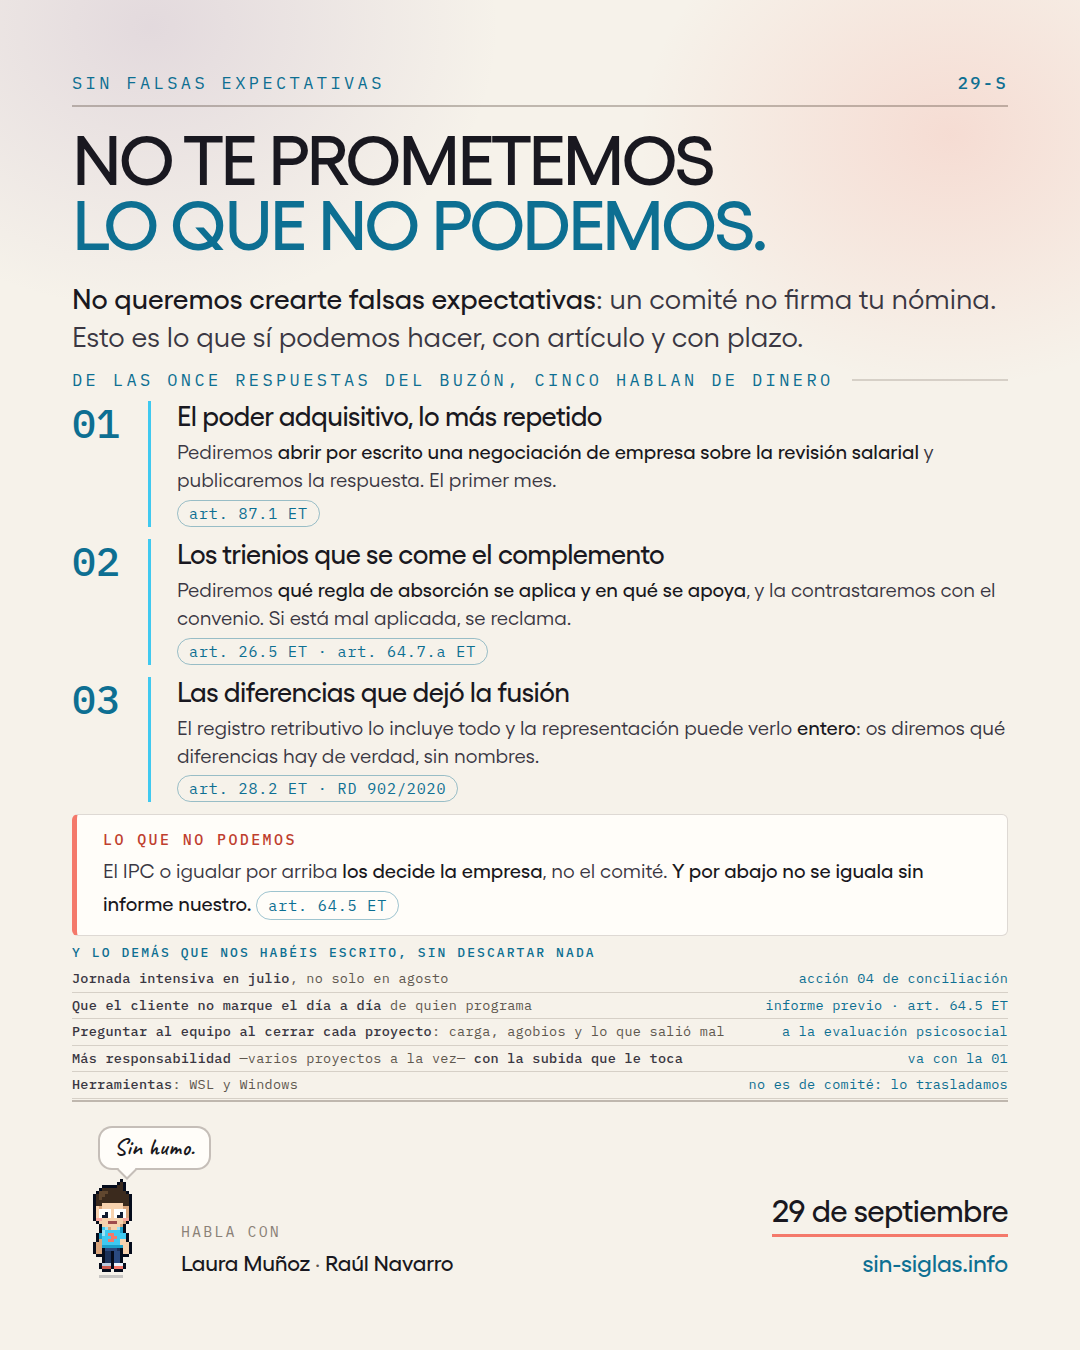
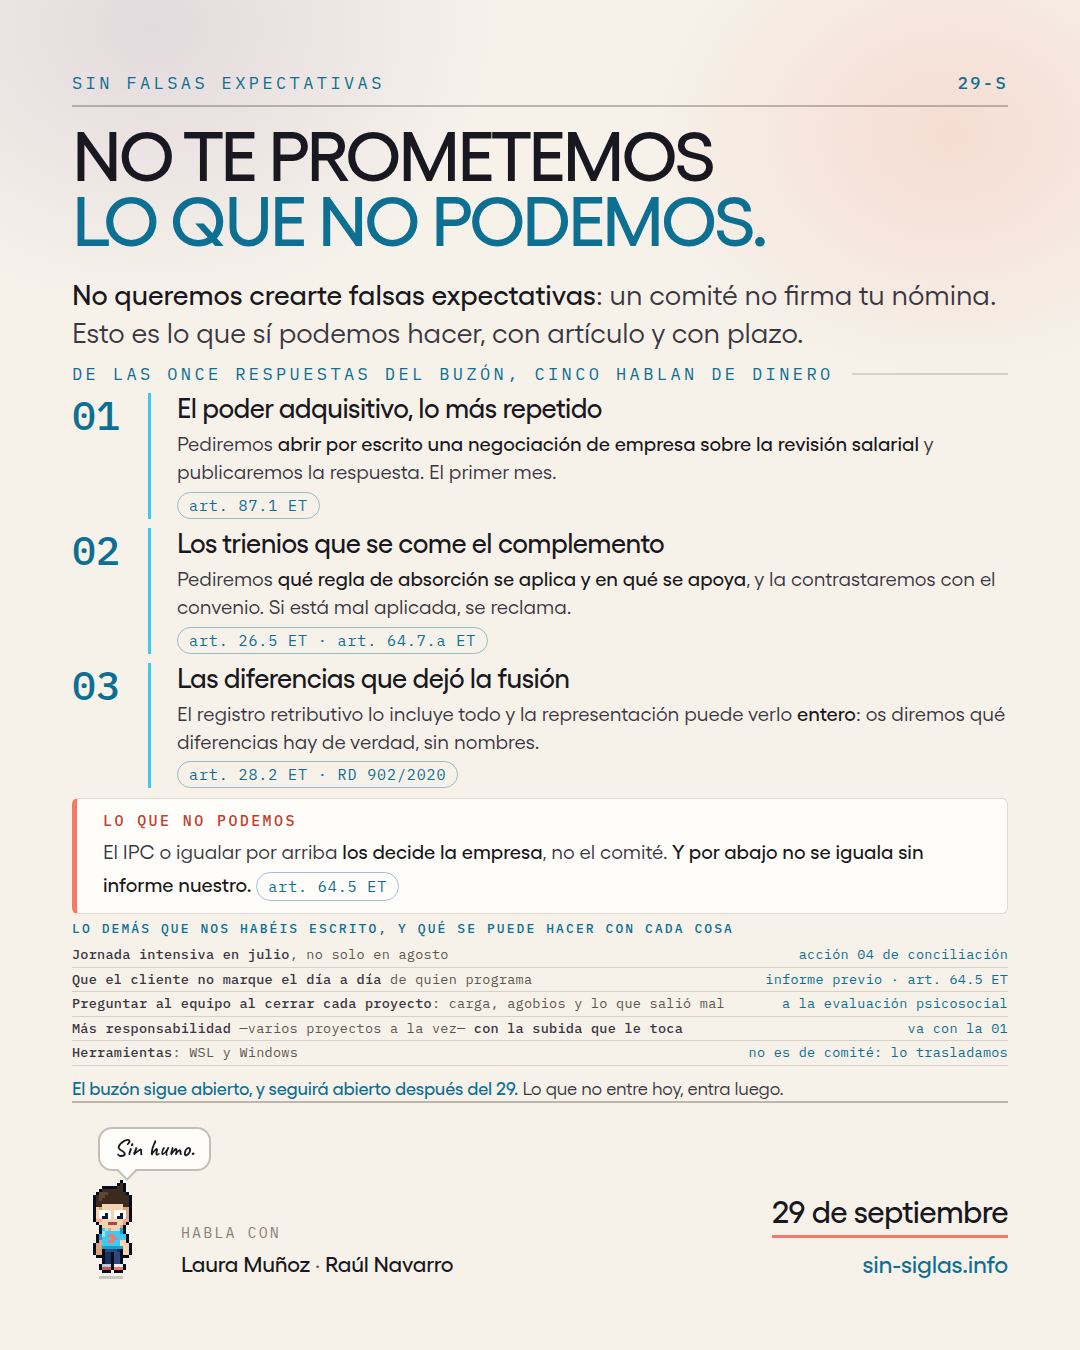
La tira del buzón deja de leerse como un cajón
En `propuestas`, los cinco temas que no son de dinero iban en mono
pequeño con la respuesta alineada a la derecha, bajo un rótulo que decía
"sin descartar nada". Leído del tirón, eso es exactamente lo que parecía:
el sitio donde se aparca lo que no interesa. Y el rótulo defendiéndose
lo empeoraba.

Dos cambios. El rótulo pasa a decir qué es la tira -- "lo demás que nos
habéis escrito, y qué se puede hacer con cada cosa" -- sin defenderse. Y
la tira cierra con una línea en tipografía de cuerpo, en cian: el buzón
sigue abierto, y seguirá abierto después del 29, así que lo que no entre
hoy entra luego.

Es lo que cambia el sentido de las cinco líneas: sin ella son cinco
temas resueltos en letra chica, con ella son el acuse de recibo de algo
que sigue en marcha. El buzón vive de que la gente crea que sirve
escribir otra vez.

El sitio para la línea sale de los huecos: rótulo, hueco entre acciones,
relleno del panel de límites y separación de la tira. Medido: 1206 de
1206 y nada recortado.

diff --git a/carteles/carteles.html b/carteles/carteles.html
@@ -375,15 +375,15 @@ body.solo .cartel.elegido{display:flex}
 #c2 .ley{margin-top:5px}
 #c2 .limite{margin-top:18px;padding:16px 26px}
 
-#c12 .tapa{padding-bottom:11px;margin-bottom:20px}
-#c12 .rotulo{margin:12px 0 10px}
-#c12 .acciones{gap:12px}
+#c12 .tapa{padding-bottom:11px;margin-bottom:16px}
+#c12 .rotulo{margin:10px 0 8px}
+#c12 .acciones{gap:9px}
 #c12 .accion h3{margin-bottom:6px}
 #c12 .ley{margin-top:5px}
-#c12 .limite{margin-top:12px;padding:15px 26px}
-#c12 .resto{margin-top:8px}
-#c12 .resto ul{gap:4px}
-#c12 .resto li{gap:16px;padding-bottom:4px}
+#c12 .limite{margin-top:10px;padding:12px 26px}
+#c12 .resto{margin-top:6px}
+#c12 .resto ul{gap:3px}
+#c12 .resto li{gap:16px;padding-bottom:3px}
 
 /* 12 · el resto de lo que ha llegado al buzón, una línea por tema con lo
    que se puede hacer con él. Va en tipografía pequeña a propósito: no es
@@ -401,6 +401,10 @@ body.solo .cartel.elegido{display:flex}
 }
 .resto b{color:var(--texto-2);font-weight:500}
 .resto i{font-style:normal;color:var(--cian);text-align:right}
+.resto__abierto{
+  margin:11px 0 0;font-size:18px;line-height:1.35;letter-spacing:-.01em;color:var(--texto-2)
+}
+.resto__abierto b{color:var(--cian);font-weight:500}
 
 /* 11 · el reto: el cartel es el propio tablero del juego. La pregunta
    que sale es de verdad, y es la única del banco cuya respuesta está
@@ -729,7 +733,7 @@ body.solo .cartel.elegido{display:flex}
   </div>
 
   <div class="resto">
-    <p class="resto__t">Y lo demás que nos habéis escrito, sin descartar nada</p>
+    <p class="resto__t">Lo demás que nos habéis escrito, y qué se puede hacer con cada cosa</p>
     <ul>
       <li><span><b>Jornada intensiva en julio</b>, no solo en agosto</span><i>acción 04 de conciliación</i></li>
       <li><span><b>Que el cliente no marque el día a día</b> de quien programa</span><i>informe previo &middot; art. 64.5 ET</i></li>
@@ -737,6 +741,8 @@ body.solo .cartel.elegido{display:flex}
       <li><span><b>Más responsabilidad</b> —varios proyectos a la vez— <b>con la subida que le toca</b></span><i>va con la 01</i></li>
       <li><span><b>Herramientas</b>: WSL y Windows</span><i>no es de comité: lo trasladamos</i></li>
     </ul>
+    <p class="resto__abierto"><b>El buzón sigue abierto, y seguirá abierto después del 29.</b>
+      Lo que no entre hoy, entra luego.</p>
   </div>
 
   <footer class="pie">

diff --git a/carteles/ESTRATEGIA.md b/carteles/ESTRATEGIA.md
@@ -257,6 +257,12 @@ respuestas.
 Ojo con las etiquetas: *ya está pedido* es del cartel del día 22 y significa pedido **a la
 empresa**. Todavía no hay comité, así que aquí no se usa: se dice en qué cartel está la acción.
 
+Y la tira cierra con **«el buzón sigue abierto, y seguirá abierto después del 29»**, en tipografía
+de cuerpo y no en mono pequeño. Sin esa línea, cinco temas resueltos en letra chica con la
+respuesta a la derecha se leen como un cajón donde va lo que no interesa; con ella, se leen como
+un acuse de recibo de algo que sigue en marcha. Es la diferencia entre cerrar la conversación y
+mantenerla abierta, que es de lo que vive el buzón.
+
 ---
 
 ## 8. Base legal de las propuestas
